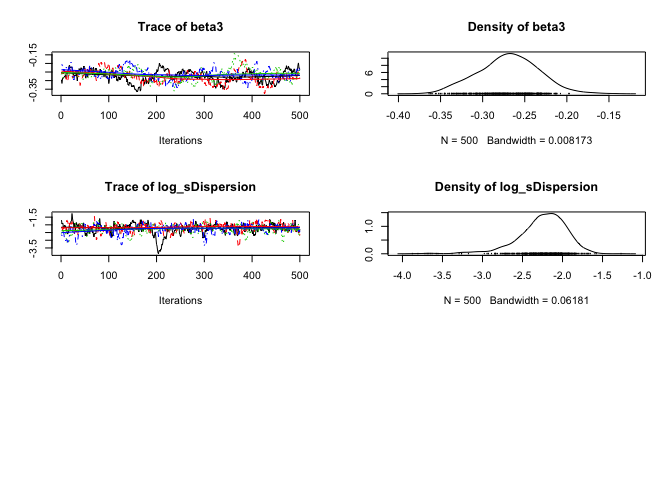
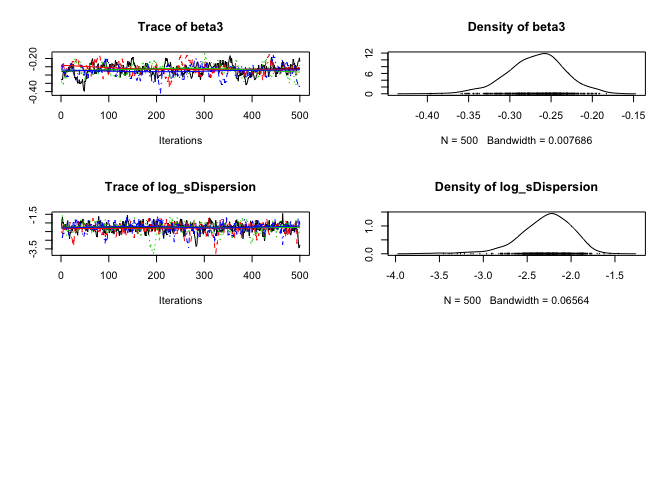
fix glance nsamples

diff --git a/README.md b/README.md
@@ -79,22 +79,26 @@ analysis <- analyse(model, data = data)
 #> # A tibble: 1 × 8
 #>       n     K nsims nchains nsamples           duration  rhat converged
 #>   <int> <int> <int>   <int>    <int>     <S4: Duration> <dbl>     <lgl>
-#> 1    40     5  4000       4  2000000 0.508044004440308s  1.08      TRUE
+#> 1    40     5  4000       4     2000 0.397214889526367s  1.28     FALSE
 analysis <- reanalyse(analysis, rhat = 1.05)
 #> # A tibble: 1 × 8
 #>       n     K nsims nchains nsamples           duration  rhat converged
 #>   <int> <int> <int>   <int>    <int>     <S4: Duration> <dbl>     <lgl>
-#> 1    40     5  8000       4  4000000 0.891358852386475s  1.04      TRUE
+#> 1    40     5  8000       4     2000 0.701442956924438s  1.07      TRUE
+#> # A tibble: 1 × 8
+#>       n     K nsims nchains nsamples         duration  rhat converged
+#>   <int> <int> <int>   <int>    <int>   <S4: Duration> <dbl>     <lgl>
+#> 1    40     5 16000       4     2000 1.2069079875946s  1.02      TRUE
 
 coef(analysis)
 #> # A tibble: 5 × 7
 #>              term    estimate         sd      zscore       lower
 #> *      <S3: term>       <dbl>      <dbl>       <dbl>       <dbl>
-#> 1           alpha  4.21839847 0.03876136 108.8190964  4.13751797
-#> 2           beta1  1.18603338 0.06965518  17.0732814  1.06087894
-#> 3           beta2  0.01571155 0.03166625   0.5168674 -0.04393087
-#> 4           beta3 -0.26799978 0.03583228  -7.5170808 -0.34000586
-#> 5 log_sDispersion -2.21588610 0.30678317  -7.3376073 -3.02357840
+#> 1           alpha  4.21726317 0.04028850 104.6923642  4.13972121
+#> 2           beta1  1.18295482 0.06833576  17.3521776  1.05749771
+#> 3           beta2  0.01786635 0.03070446   0.5585299 -0.04212982
+#> 4           beta3 -0.26631017 0.03470670  -7.7272600 -0.34252029
+#> 5 log_sDispersion -2.25630852 0.30719811  -7.4592862 -3.03343771
 #> # ... with 2 more variables: upper <dbl>, pvalue <dbl>
 
 plot(analysis)
